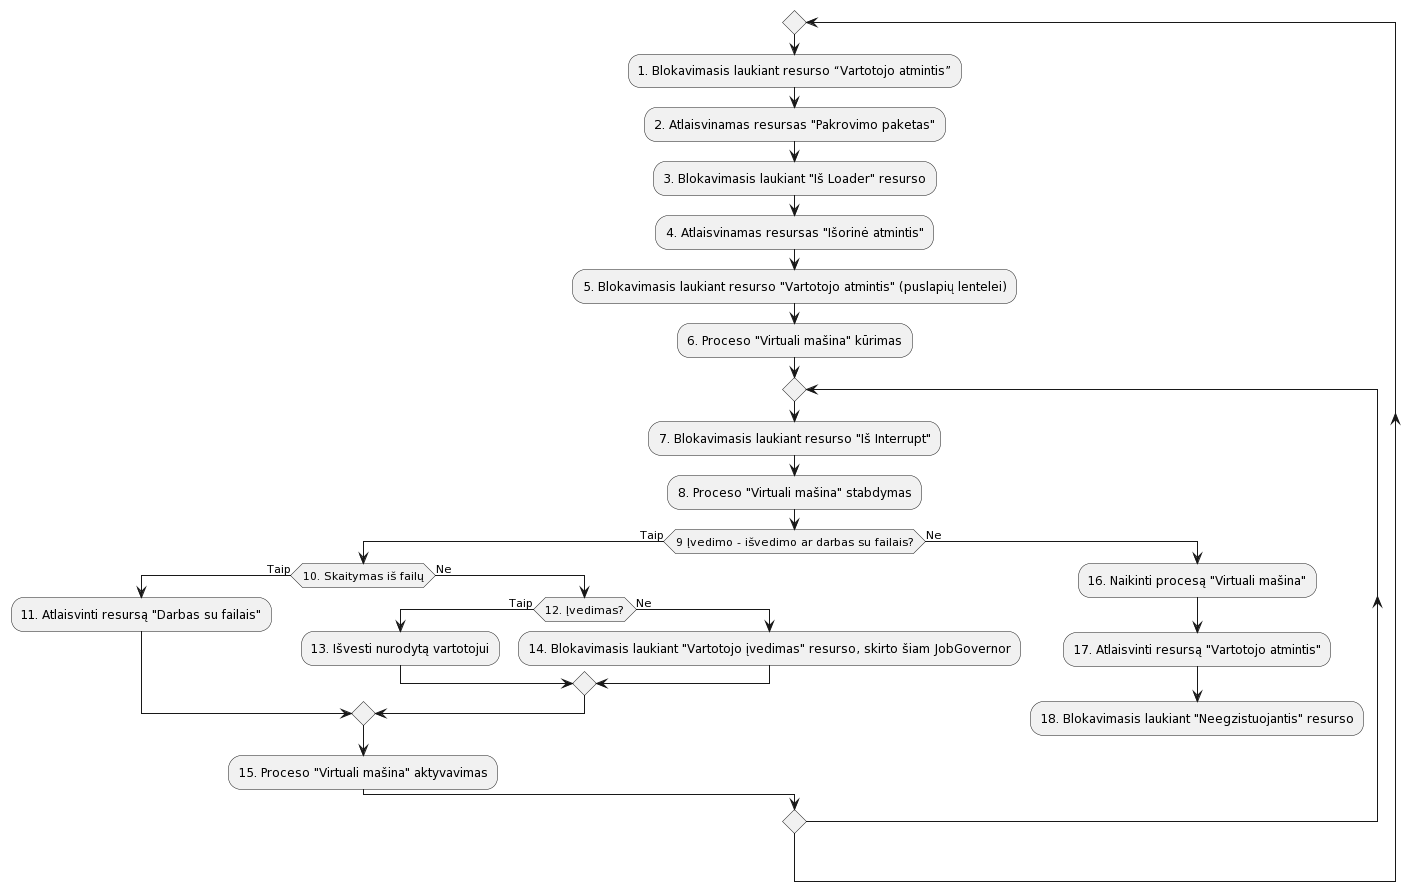
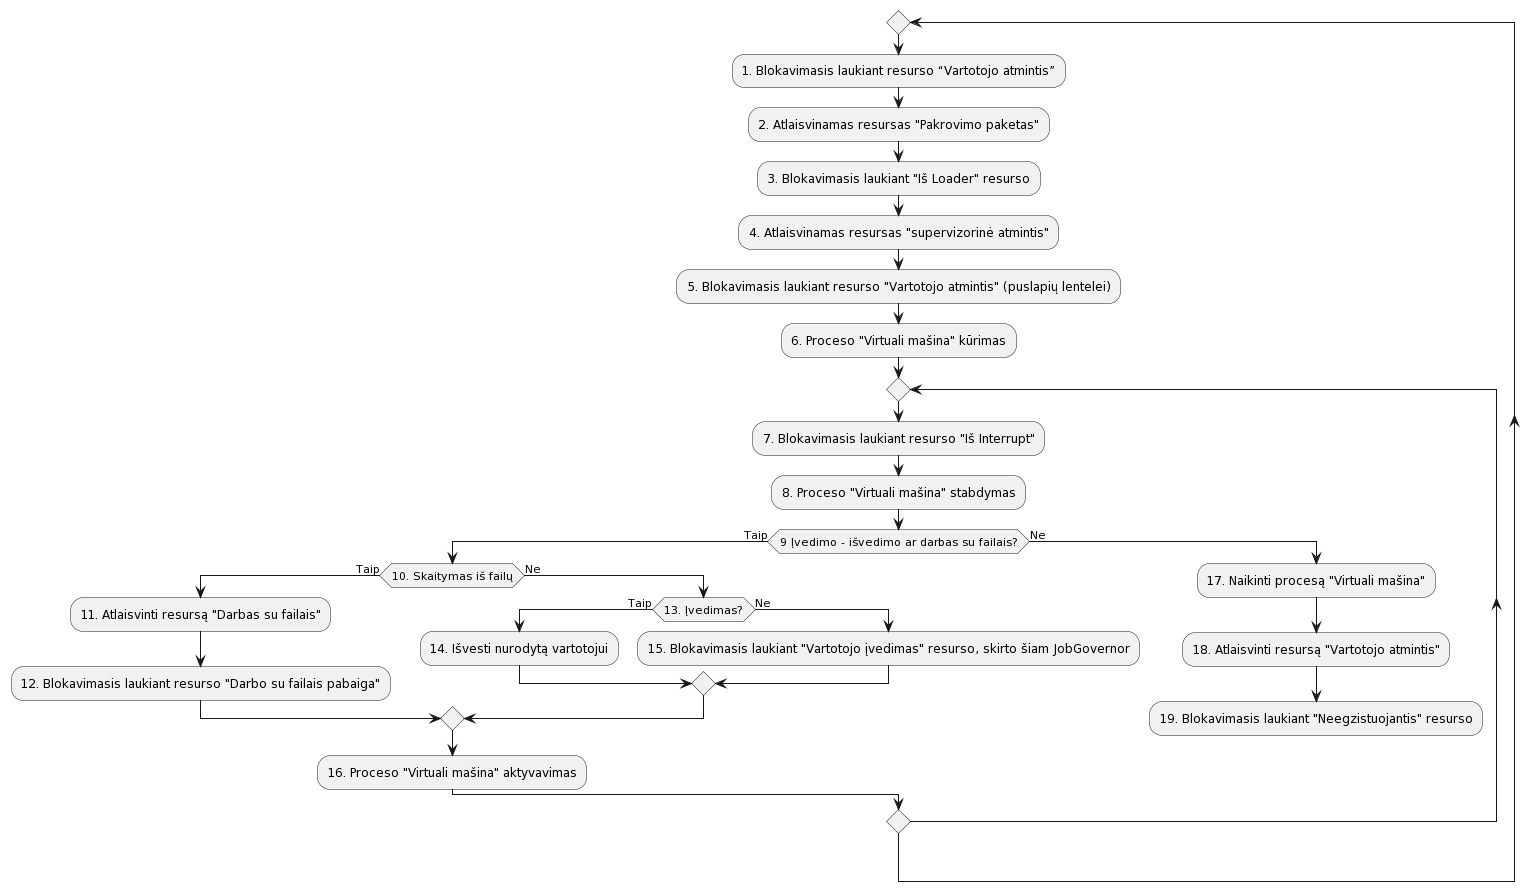
improved-for-second-project

diff --git a/aprasymas2/projektas2.tex b/aprasymas2/projektas2.tex
@@ -43,25 +43,66 @@ Procesai - vykdomosios programos su esamomis registrų reikšmėmis ir savo kint
 \begin{itemize}
 	\item Vykdomas - turi procesorių.
 	\item Pasiruošęs - vienintelis trūkstamas resursas yra procesorius.
-	\item Blokuotas - prašo resųrso (išskyrus procesorių).
+	\item Blokuotas - prašo resurso (išskyrus procesorių).
 	\item Pasiruošęs sustabdytas
 	\item Blokuotas sustabdytas
 \end{itemize}
 
+\subsection{Procesų būsenų kitimas}
+
+\begin{figure}[H]
+	\centering	
+	\includegraphics[scale=0.6]{img/busenu-kitimas}
+	\caption{Proceso būsenų kitimo diagrama}   % Antraštė įterpiama po paveikslėlio
+	\label{img:busenu-kitimas}
+\end{figure}
+
+\begin{enumerate}
+	\item Vykdomas procesas blokuojasi jam prašant ir negavus resurso.
+	\item Vykdomas procesas tampa pasiruošusiu atėmus iš jo procesorių dėl kokios
+	nors priežasties (išskyrus resurso negavimą).
+	\item Blokuotas procesas tampa pasiruošusiu, kai yra suteikiamas reikalingas
+	resursas.
+	\item Pasiruošę procesai varžosi dėl procesoriaus. Gavęs procesorių procesas tampa
+	vykdomu.
+	\item Procesas gali tapti sustabdytu blokuotu, jei einamasis procesas jį sustabdo, kai
+	jis jau ir taip yra blokuotas.
+	\item Procesas tampa blokuotu iš blokuoto sustabdyto, jei einamasis procesas nuima
+	būseną sustabdytas.
+	\item Procesas gali tapti pasiruošusiu sustabdytu, jei einamasis procesas jį sustabdo,
+	kai jis yra pasiruošęs.
+	\item Procesas tampa pasiruošusiu iš pasiruošusio sustabdyto, jei einamasis procesas
+	nuima būseną sustabdytas
+	\item Procesas tampa pasiruošusiu sustabdytu iš blokuoto sustabdyto, jei procesui
+	yra suteikiamas jam reikalingas resursas.
+\end{enumerate}
+
+
 \subsection{Planuotojas}
 
-Planuotojo paskirtis - atimti procesorių iš procceso, peržvelgti pasiruošųsių procesų sąrašą ir paduoti procesorių tinkamiausiam iš jų.
+Planuotojo paskirtis - atimti procesorių iš procceso, peržvelgti pasiruošųsių procesų sąrašą ir tinkamiausiam iš jų perduoti procesorių.
+
+\begin{figure}[H]
+	\centering	
+	\includegraphics[scale=0.65]{img/scheduler}
+	\caption{Planuotojo diagrama}   % Antraštė įterpiama po paveikslėlio
+	\label{img:scheduler}
+\end{figure}
 
 \subsubsection{Prioritetai}
 
 Visi procesai turi prioritetus nuo 0 iki 20, kuo didesnis prioritetas, tuo didesnė tikimybė, kad procesas bus vykdomas.
 
+\subsection{Resursų paskirstytojas}
+
+Resursų paskirstytojo paskirtis - suteikti paprašytą resurso elementų kiekį procesui.
+
 \subsection{Procesų primityvai}
 
 \begin{itemize}
-	\item Kurti procesą - perduodama nuoroda į tėvą, p
-	\item Naikinti procesą
-	\item Stabdyti procesą
+	\item Kurti procesą - perduodama nuoroda į tėvinį procesą ir kūrimo parametrai.
+	\item Naikinti procesą - perduodama naikinama proceso nuoroda. Taip yra sunaikinami visi šio proceso vaikiniai procesai.
+	\item Stabdyti procesą - perduodama stabdomo proceso nuoroda.
 \end{itemize}
 
 \subsection{Procesų kūrimo ir trynimo lentelė}
@@ -112,8 +153,8 @@ Paskirtis - gavus informaciją iš įvedimo srauto atlikti pirminį jos apdoroji
 
 \begin{figure}[H]
 	\centering	
-	\includegraphics[scale=0.65]{img/ReadFromInterface}
-	\caption{Proceso StartStop diagrama}   % Antraštė įterpiama po paveikslėlio
+	\includegraphics[scale=0.40]{img/ReadFromInterface}
+	\caption{Proceso ReadFromInterface diagrama}   % Antraštė įterpiama po paveikslėlio
 	\label{img:ReadFromInterface}
 \end{figure}
 
@@ -141,7 +182,7 @@ MainProc paskirtis - kurti ir naikinti procesus JobGovernor.
 
 \subsection{Loader}
 
-Loader paskirtis - perkelti blokus iš išorinės atminties į vartotojo atmintį.
+Loader paskirtis - perkelti blokus iš supervizorinės atminties į vartotojo atmintį.
 
 \begin{figure}[H]
 	\centering	
@@ -196,10 +237,6 @@ Proceso PrintLine paskirtis - į išvedimo srautą pasiųsti pranešimą.
 
 \subsection{FileSystem}
 
-(darbus su failais turėtų nurodyti informaciją)
-
-?Kaip virtualiai mašinai nustato registrus?
-
 Proceso paskirtis - aptarnauti veiksmus, susijusius su failų sistema.
 
 \begin{figure}[H]
@@ -211,7 +248,7 @@ Proceso paskirtis - aptarnauti veiksmus, susijusius su failų sistema.
 
 \subsection{Idle}
 
-Proceso Idle paskirtis - būti vykdomam, kai nėra kitų pasiruošusių procesų.
+Proceso Idle paskirtis - būti vykdomam, kai nėra kitų pasiruošusių procesų. Šis procesas visada turi žemiausią įmanomą prioritetą.
 
 \begin{figure}[H]
 	\centering	
@@ -222,6 +259,8 @@ Proceso Idle paskirtis - būti vykdomam, kai nėra kitų pasiruošusių procesų
 
 
 \section{Resursai}
+
+Resursai yra tai, dėl ko varžosi procesai. Dėl resursų trūkumo procesai blokuojasi, gavę reikiamą resursą, procesai tampa pasiruošusiais.
 
 \subsection{Resursų lentelė}
 
@@ -234,47 +273,106 @@ Proceso Idle paskirtis - būti vykdomam, kai nėra kitų pasiruošusių procesų
 		\hline
 		Resurso pavadinimas & Resursą kuria & Resursą atlaisvina & Dėl resurso blokuojasi \\
 		\hline
-		\multicolumn{4}{c}{SISTEMINIAI}\\
+		\multicolumn{4}{c}{Sisteminiai}\\
 		\hline
-		Kanalų įrenginys & ------- & Loader, PrintLine & Loader, PrintLine\\
+		Kanalų įrenginys & StartStop & Loader, PrintLine & Loader, PrintLine\\
 		\hline
-		Supervizorinė atmintis & ------- & & ReadFromInterface \\
+		Supervizorinė atmintis & StartStop & JobGovernor, JCL & ReadFromInterface \\
 		\hline
-		Vartotojo atmintis & ------- & & JobGovernor\\
+		Vartotojo atmintis & StartStop & JobGovernor & JobGovernor\\
 		\hline
-		Išorinė atmintis & ------- & JobGovernor & JobGovernor \\
+		Išorinė atmintis & StartStop & JobGovernor & JobGovernor \\
 		\hline
-		\multicolumn{4}{c}{PROGRAMINIAI}\\
+		\multicolumn{4}{c}{Programiniai}\\
 		\hline
-		Užduotis būgne & & JCL & MainProc \\
+		MOS pabaiga & StartStop & ReadFromInterface & StartStop \\
 		\hline
-		MOS pabaiga & & & StartStop \\
+		Iš vartotojo sąsajos & StartStop & & ReadFromInterface \\
 		\hline
-		Iš vartotojo sąsajos &  & & ReadFromInterface \\
+		Užduotis supervizorinėje atmintyje & StartStop & ReadFromInterface & JCL \\
 		\hline
-		Užduotis supervizorinėje atmintyje & & ReadFromInterface & JCL \\
+		Užduoties programa supervizorinėje atmintyje & StartStop & JCL & MainProc \\
 		\hline
-		Užduotis būgne & & JCL & MainProc \\
+		Pakrovimo paketas & StartStop & JobGovernor & Loader \\
 		\hline
-		Pakrovimo paketas & & JobGovernor & Loader \\
+		Iš Loader & StartStop & Loader & JobGovernor \\
 		\hline
-		Iš Loader & & Loader & JobGovernor \\
+		Eilutė atmintyje & StartStop & JCL, JobGovernor & PrintLine\\
 		\hline
-		Eilutė atmintyje & & JCL & PrintLine\\
+		Iš Interrupt & StartStop & Interrupt & JobGovernor\\
 		\hline
-		Iš Interrupt & & Interrupt & JobGovernor\\
-		\hline
-		Vartotojo įvedimas & & & JobGovernor \\
+		Vartotojo įvedimas & StartStop & ReadFromInterface & JobGovernor \\
 		\hline 
-		Pertraukimas & & VirtualMachine & Interrupt\\
+		Pertraukimas & StartStop & VirtualMachine & Interrupt\\
 		\hline 
 		Darbas su failais & StartStop & JobGovernor & FileSystem \\
 		\hline
+		Darbo su failais pabaiga & StartStop & FileSystem & JobGovernor \\
+		\hline 
 		Neegzistuojantis & StartStop & ------- & JobGovernor \\
 		\hline
 	\end{tabular}
 	\label{tab:resursu_lentele}
 \end{table}
+
+\section{Procesų klasių aprašai}
+
+\subsection{Proceso klasės aprašas}
+
+Proceso klasė TProcess susideda iš šių dalių:
+
+\begin{itemize}
+	\item FList: TProcessList (sąrašo, kuriams jis priklauso)
+	\item FID: Integer (unikalus objekto id)
+	\item FSavedRegisters: TSavedReisters (išsaugota registrų būsena)
+	\item FCreatedRes: TResourceList (sukurtų resursų sąrašas)
+	\item FState: TProcessState (kuriame žingsnyje yra procesas)
+	\item FPriority: Integer
+	\item FParent: TProcess (tėvinio proceso nuoroda)
+	\item FChildren: TProcessList
+\end{itemize}
+
+\subsection{Resurso klasės aprašas}
+
+Resurso klasė TResource susideda iš šių dalių:
+
+\begin{itemize}
+	\item FID: Integer (unikalus objekto id)
+	\item FCreator: TProcess (nuoroda į procesą, sukūrusį šį resursą)
+	\item FList: TElementList (nuoroda į resurso elementų sąrašą)
+	\item FWaitingProc : TProcessList (nuoroda į šio resurso laukiančių procesų sąrašą)
+	\item FWaitingCount: TIntegerList (nuoroda į šio resurso laukiančių procesų paprašytų
+	resurso kiekių sąrašą).
+	\item FResourceList: TResourceList (nuoroda į visų resursų sąrašą)
+\end{itemize}
+
+\subsection{Pagalbinės klasės}
+
+Registrų būsena TSavedRegisters susidaro iš šių dalių:
+
+\begin{itemize}
+	\item R1: TWord
+	\item R2: TWord
+	\item R3: TWord
+	\item CS: TDByte
+	\item DS: TDByte
+	\item IC: TDByte
+	\item PI: TPIReg
+	\item SI: TSIReg
+	\item PTR: TDByte
+	\item Mode: TByte
+\end{itemize}
+
+TPIReg ir TSIReg - aprašo ar dabar yra išauktas atitinkamas pertraukimas ir jei taip - koks jo tipas.
+
+Resurso elemento klasė TResElement susideda iš šių dalių:
+
+\begin{itemize}
+	\item FElementList: TElementList (nuoroda į resurso elementų sąrašą, kuriame yra šis resurso elementas)
+	\item FReceiver: TProcess (procesas, kuris turi gauti šį resurso elementą. Jei šio lauko
+reikšmė lygi nil, tai laikoma, kad šį elementą gali gauti bet kuris procesas)
+	\item FSender: TProcess (procesas, atlaisvinęs šį resurso elementą)
+\end{itemize}
 
 \printbibliography[heading=bibintoc] % Literatūros šaltiniai aprašomi
 \appendix  % Priedai

diff --git a/aprasymas1/projektas1.tex b/aprasymas1/projektas1.tex
@@ -60,8 +60,8 @@ Procesorius turi registrus:
 \begin{itemize}
 	\item IC - komandų skaitiklis - 2 baitai.
 	\item R1, R2, R3 - bendrosios paskirties registrai iš 6 baitų (vienas žodis).
-	\item CS - kodo segmento registras, 1 baitas.
-	\item DS - duomenų segmento registras, 1 baitas.
+	\item CS - kodo segmento registras, 2 baitai.
+	\item DS - duomenų segmento registras, 2 baitai.
 	\item MODE - 1 bito registras, kuris nurodo procesoriaus darbo režimą (0 - vartotojas, 1 - supervizorius)
 	\item FLAGS - 1 baito požymių registras, kurio reikšmė yra pakeičiama po aritmetinės ar palyginimo operacijos. Jis susideda iš šių bitų (numeruojami nuo jauniausio pradedant nuo skaičiaus 1): 
 	\begin{itemize}
